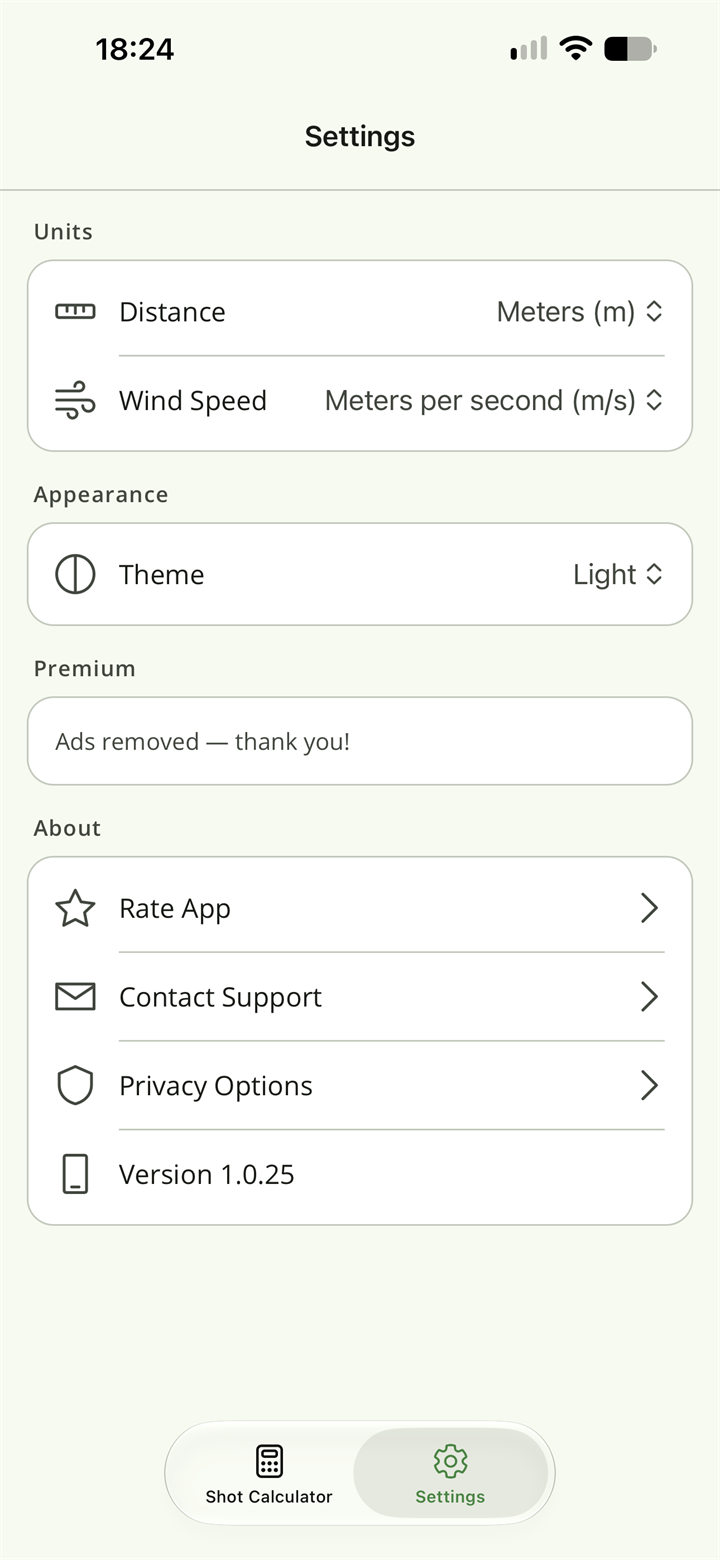
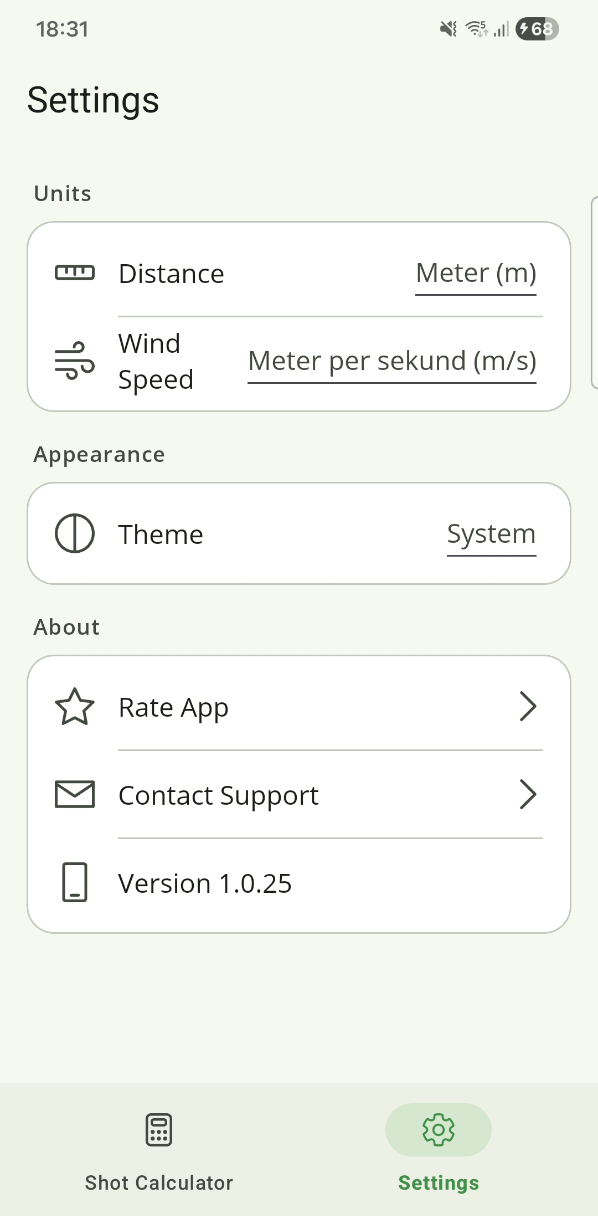
Use the Android screenshots on the ForeWind page
The CSS phone frame reads as an Android phone, and the iPhone UI inside
it looked wrong. Swap in the Play captures, cropped above the system nav
bar and kept at their native 598px width, and restore the compass row now
that the hero shows the Plays As screen. The quoted example follows the
new capture: 150 m plays like 180 m.

diff --git a/forewind/index.html b/forewind/index.html
@@ -16,7 +16,7 @@
 <meta property="og:image" content="https://nilbytestudio.com/assets/images/forewind/og-cover.png">
 <meta property="og:image:width" content="1200">
 <meta property="og:image:height" content="630">
-<meta property="og:image:alt" content="ForeWind — know how far it really plays. Free for iOS and Android. The Shot Calculator showing a 150 m shot playing as 185 m.">
+<meta property="og:image:alt" content="ForeWind — know how far it really plays. Free for iOS and Android. The Shot Calculator showing a 150 m shot playing as 180 m.">
 <meta name="twitter:card" content="summary_large_image">
 
 <meta name="theme-color" content="#C2EDC4" media="(prefers-color-scheme: light)">
@@ -143,9 +143,9 @@
 
       <div class="shot hero__shot">
         <img class="shot__screen"
-             src="../assets/images/forewind/calculator.png"
-             width="720" height="1560" decoding="async"
-             alt="The ForeWind Shot Calculator: a compass reading “Wind 10 m/s from NW”, a distance of 150 entered with the slope set to flat, and a green card reading “Plays As 185 m, Actual 150 m”, above the line “Very strong headwind (10 m/s)”.">
+             src="../assets/images/forewind/plays-as.png"
+             width="598" height="1216" decoding="async"
+             alt="The ForeWind Shot Calculator: a Distance to Pin of 150 with the slope set to flat, and a green card reading “Plays As 180 m, Actual 150 m”, above the line “Very strong headwind (10 m/s)”.">
       </div>
     </div>
   </section>
@@ -186,7 +186,7 @@
           <h3 class="fact__title">3 · Club for what it plays</h3>
           <p class="fact__text">
             The Plays As figure is the distance to hit. 150 m into a 10 m/s
-            headwind plays like 185 m — a gap most golfers have paid for before.
+            headwind plays like 180 m — a gap most golfers have paid for before.
           </p>
         </li>
       </ul>
@@ -203,6 +203,25 @@
 
         <li class="feature">
           <div class="feature__copy">
+            <h2 class="feature__title">Point it down the line</h2>
+            <p class="feature__text">
+              The compass is what makes the number yours. A breeze from the left
+              of the green counts differently from one straight in your face, so
+              ForeWind reads the wind against the line you're actually hitting,
+              not just its speed. If the heading drifts, it asks you to calibrate
+              with a quick figure-8.
+            </p>
+          </div>
+          <div class="shot">
+            <img class="shot__screen"
+                 src="../assets/images/forewind/compass.png"
+                 width="598" height="1216" loading="lazy" decoding="async"
+                 alt="The top of the Shot Calculator: a compass with the needle pointing down the shot line and the reading “Wind 10 m/s from NW”, above the Distance to Pin field and the Slope to Pin selector.">
+          </div>
+        </li>
+
+        <li class="feature">
+          <div class="feature__copy">
             <h2 class="feature__title">Weather from where you're standing</h2>
             <p class="feature__text">
               Wind, gusts, temperature, pressure, humidity, chance of rain and
@@ -214,8 +233,8 @@
           <div class="shot">
             <img class="shot__screen"
                  src="../assets/images/forewind/weather.png"
-                 width="720" height="1560" loading="lazy" decoding="async"
-                 alt="Below the Plays As card, a grid of six weather tiles — gust 17 m/s, rain 9%, temperature 10.1 °C, pressure 1000 hPa, humidity 80% and elevation 27 m — and a line crediting weather data from the Norwegian Meteorological Institute.">
+                 width="598" height="1216" loading="lazy" decoding="async"
+                 alt="Below the Plays As card, a grid of six weather tiles — gust 18 m/s, rain 16%, temperature 9.8 °C, pressure 1000 hPa, humidity 80% and elevation 27 m — and a line crediting weather data from the Norwegian Meteorological Institute.">
           </div>
         </li>
 
@@ -232,8 +251,8 @@
           <div class="shot">
             <img class="shot__screen"
                  src="../assets/images/forewind/settings.png"
-                 width="720" height="1560" loading="lazy" decoding="async"
-                 alt="The Settings screen: Distance in metres, Wind Speed in metres per second, Theme set to Light, a Premium row reading “Ads removed — thank you!”, and Rate App, Contact Support and Privacy Options rows.">
+                 width="598" height="1216" loading="lazy" decoding="async"
+                 alt="The Settings screen: Distance in metres, Wind Speed in metres per second, Theme set to System, and Rate App, Contact Support and Version rows.">
           </div>
         </li>
 

diff --git a/assets/css/product.css b/assets/css/product.css
@@ -75,9 +75,10 @@
   --on-accent-container: #00210A;
   --accent-soft:         rgba(61, 144, 70, 0.10);
 
-  /* 6.7" iPhone captures, 1290x2796 scaled to 720x1560. iOS exports
-     the screen alone, with no bezel or nav bar to crop. */
-  --shot-ratio:          720 / 1560;
+  /* Android captures, 598x1296, with the 80px system nav bar cropped off
+     to 598x1216 and kept at native size (the frame is at most 272 CSS px,
+     so 598 covers 2x screens). Raw screenshots: no bezel sliver to clip. */
+  --shot-ratio:          598 / 1216;
 }
 
 @media (prefers-color-scheme: dark) {

diff --git a/docs/forewind/og-cover.html b/docs/forewind/og-cover.html
@@ -29,5 +29,5 @@ h1 { position: absolute; left: 88px; top: 160px; margin: 0; font-size: 116px; fo
   <h1>ForeWind</h1>
   <p class="tag">Know how far it<br>really plays.</p>
   <div class="pill">Free · iOS and Android</div>
-  <div class="shot"><img src="screenshots-original/calculator.png"></div>
+  <div class="shot"><img src="screenshots-original/plays-as.png"></div>
 </body></html>

diff --git a/docs/forewind/2026-10-11-product-page.md b/docs/forewind/2026-10-11-product-page.md
@@ -20,12 +20,16 @@
 
 ## Assets
 
-- **Screenshots** are the English 6.7" iPhone captures from the ForeWind repo's
-  `docs/store/appstore-listing/appstore-screenshot-N-original-en.png` (1290×2796), scaled
-  to 720×1560 in `assets/images/forewind/` as `calculator.png`, `weather.png` and
-  `settings.png`. Originals are copied to `docs/forewind/screenshots-original/`. iOS
-  exports the screen alone, so there is nothing to crop. The iPhone set was chosen over
-  the Play captures because those are 598 px wide and would have to be upscaled.
+- **Screenshots** are the English Android captures from the ForeWind repo's
+  `docs/store/play-listing/appstore-screenshot-N-original-en.png` (598×1296), with the
+  80 px system nav bar cropped off to 598×1216, as RefundHound's are. They are kept at
+  native size rather than upscaled: the frame is at most 272 CSS px, so 598 covers 2×
+  screens. Saved in `assets/images/forewind/` as `compass.png`, `plays-as.png`,
+  `weather.png` and `settings.png`, with originals in `docs/forewind/screenshots-original/`.
+  Android rather than iPhone shots because the CSS frame reads as an Android phone, and an
+  iOS UI inside it looked wrong.
+- **Known flaw:** the English Settings capture shows Swedish unit names ("Meter per
+  sekund (m/s)"). Swap `settings.png` when there is a clean re-capture.
 - **Share card** `assets/images/forewind/og-cover.png` (1200×630) is rendered from
   `docs/forewind/og-cover.html` with headless Edge:
 
@@ -39,8 +43,9 @@
 
 Every claim is from the ForeWind repo's `docs/store/play-listing/play-listing.md`
 ("Claims verified against the codebase") or from the support page, which is itself
-sourced from the code. The "150 m plays like 185 m into 10 m/s" example is read off
-the hero screenshot. The privacy panel names both things that leave the phone (the
+sourced from the code. The "150 m plays like 180 m into 10 m/s" example is read off
+the hero screenshot; the iPhone capture says 185 m, so re-check it if the shots change.
+The privacy panel names both things that leave the phone (the
 position sent to MET Norway, and the Google-served banner). It does not claim "no
 tracking", because the privacy policy's Remove Ads caveat says the Google SDK still
 starts after the purchase.
